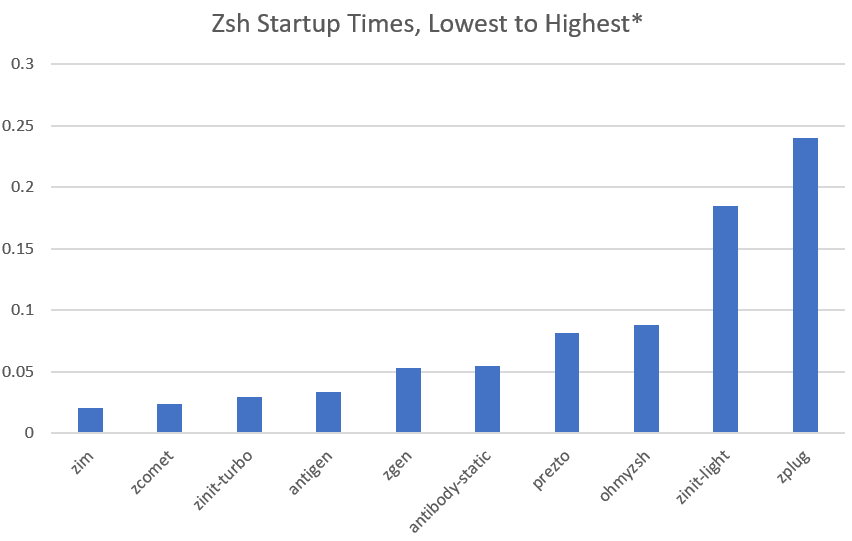
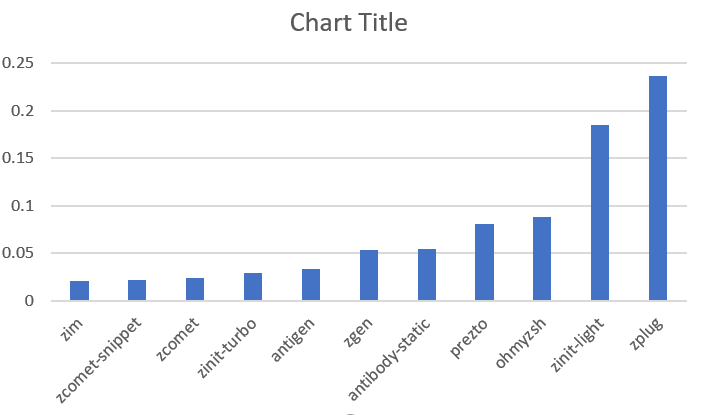
New benchmarks

diff --git a/README.md b/README.md
@@ -12,7 +12,7 @@
 
 ![Benchmarks](img/benchmarks.png)
 
-*\*100 iterations on a four-core Ubuntu laptop*
+*\*100 iterations on a four-core Ubuntu laptop. The separate "`zcomet`-snippet" benchmark shows that use of the `snippet` command can make your startup time even faster.*
 
 `zcomet` is still in the initial phases of its development. I have to implement prettier and more informative messages (you will see some raw Git output), and error handling is very basic at present. If I make any changes early on that are likely to break your configuration, I will explain them in the [News](#news) section.
 
